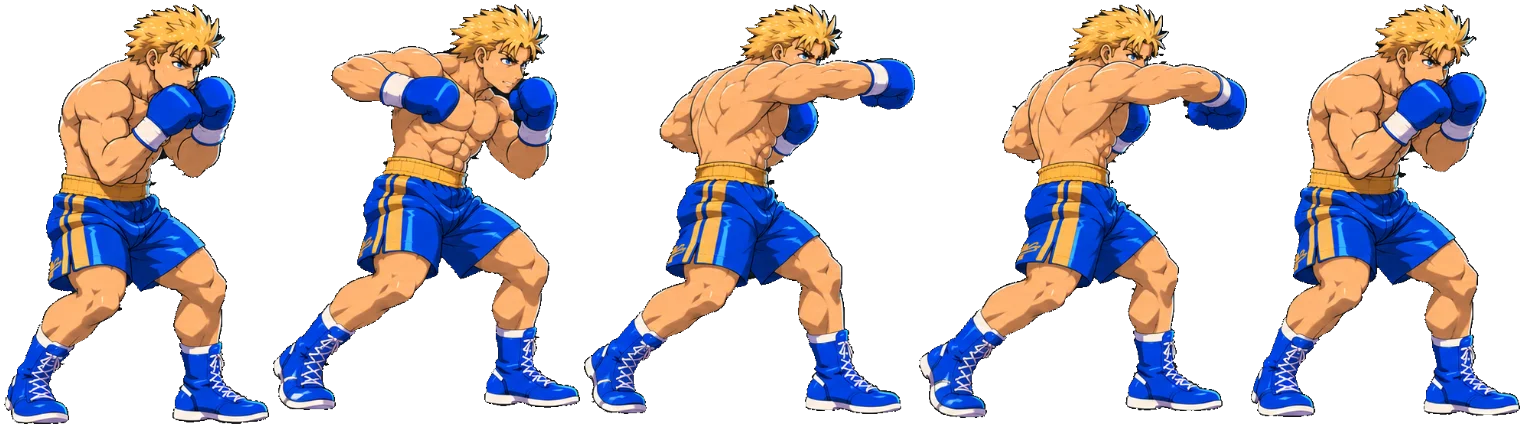
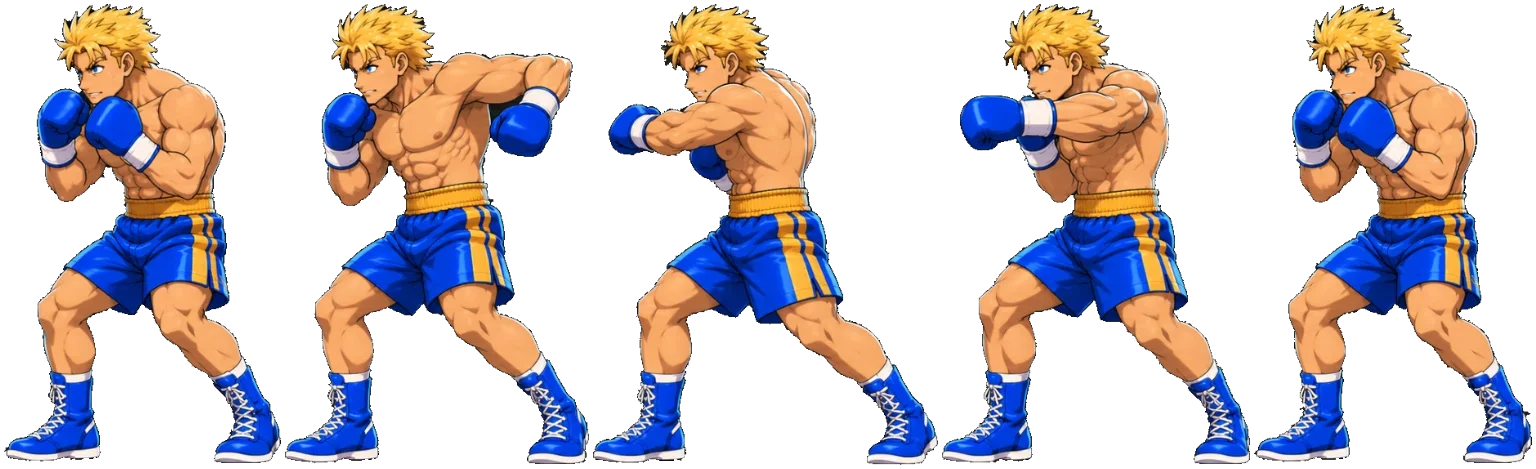
Replace Jack's hook with the new hook sheet

diff --git a/sw.js b/sw.js
@@ -1,5 +1,5 @@
 // Offline support: the game shell is cached on install; fonts are cached the first time they load.
-const CACHE = 'bell-to-bell-v4';
+const CACHE = 'bell-to-bell-v5';
 const JACK = ['idle', 'walk', 'slip', 'jab', 'jab-stiff', 'cross', 'hook', 'upper', 'hit', 'down', 'block', 'body-cross',
   'stunned', 'get-up', 'win', 'body-jab', 'block-hit', 'body-upper', 'body-hook', 'lose'].map(n => 'art/jack/' + n + '.webp');
 const SHELL = ['./', 'index.html', 'manifest.webmanifest', 'icon-192.png', 'icon-512.png', 'icon-maskable-512.png',
